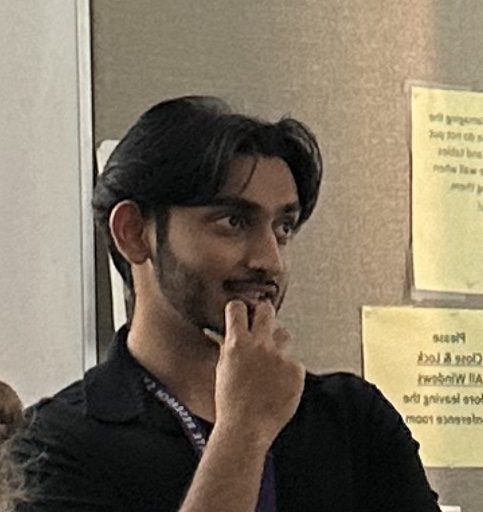
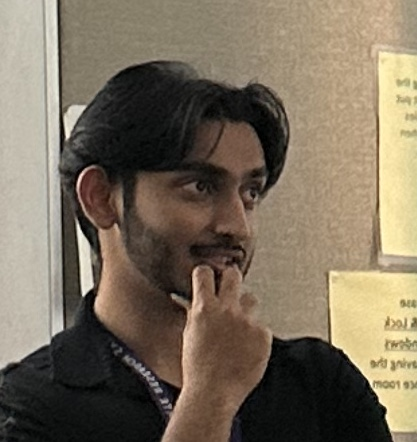
deploy: aditya-uw/my-wowchemy-site@fd492ed4569dba36b0ba7b34c07634377d26df57

diff --git a/talk/discerning-behavioral-habits-of-echolocating-bats-using-acoustical-and-computational-methods/index.html b/talk/discerning-behavioral-habits-of-echolocating-bats-using-acoustical-and-computational-methods/index.html
@@ -2,7 +2,7 @@
 <span><i class="fas fa-bars"></i></span></button><div class="navbar-brand-mobile-wrapper d-inline-flex d-lg-none"><a class=navbar-brand href=/>Aditya @ UW</a></div><div class="navbar-collapse main-menu-item collapse justify-content-start" id=navbar-content><ul class="navbar-nav d-md-inline-flex"><li class=nav-item><a class=nav-link href=/#about><span>Home</span></a></li><li class=nav-item><a class=nav-link href=/#experience><span>Experience</span></a></li><li class=nav-item><a class=nav-link href=/#awards><span>Awards</span></a></li><li class=nav-item><a class=nav-link href=/#courses><span>Courses</span></a></li><li class=nav-item><a class=nav-link href=/#projects><span>Projects</span></a></li><li class=nav-item><a class=nav-link href=/#talks><span>Talks</span></a></li></ul></div><ul class="nav-icons navbar-nav flex-row ml-auto d-flex pl-md-2"><li class=nav-item><a class="nav-link js-search" href=# aria-label=Search><i class="fas fa-search" aria-hidden=true></i></a></li><li class="nav-item dropdown theme-dropdown"><a href=# class=nav-link data-toggle=dropdown aria-haspopup=true aria-label="Display preferences"><i class="fas fa-moon" aria-hidden=true></i></a><div class=dropdown-menu><a href=# class="dropdown-item js-set-theme-light"><span>Light</span></a>
 <a href=# class="dropdown-item js-set-theme-dark"><span>Dark</span></a>
 <a href=# class="dropdown-item js-set-theme-auto"><span>Automatic</span></a></div></li></ul></div></nav></div><div class=page-body><div class=pub><div class="article-container pt-3"><h1>Discerning behavioral habits of echolocating bats using acoustical and computational methods</h1><div class=article-metadata><div><span>Aditya Krishna</span></div></div><div class="btn-links mb-3"><a class="btn btn-outline-primary btn-page-header" href=/talk/discerning-behavioral-habits-of-echolocating-bats-using-acoustical-and-computational-methods/20220520_urp_symposium.pdf target=_blank rel=noopener>Slides</a></div></div><div class="article-header article-container featured-image-wrapper mt-4 mb-4" style=max-width:720px;max-height:405px><div style=position:relative><img src=/talk/discerning-behavioral-habits-of-echolocating-bats-using-acoustical-and-computational-methods/featured_hu7728d7ab4bb6f04b4c5a70b4b3d79b07_1099954_720x0_resize_lanczos_3.png width=720 height=405 alt class=featured-image></div></div><div class=article-container><h3>Abstract</h3><p class=pub-abstract>Bioindicators, such as bats and frogs, are animals with high sensitivity to environmental conditions. Monitoring the collective behavior of these animals is critical in understanding the health of the environment. Monitoring strategies target a shared behavioral trait to observe an animal groups’ presence or absence. To monitor bats, the trait that is most useful is their ability to echolocate. Bats use echolocation to navigate their surroundings and hunt insects by producing high frequency calls and listening for their echoes. This allows them to be acoustically monitored using microphones to capture their activity in the form of echolocation calls. These large volumes of acoustic data can be extremely useful in studying individual and collective behaviors. This is where the field of acoustics and computation can be merged to develop efficient and scalable monitoring methods for discerning bat behavioral patterns. In this work, I collected passive acoustic monitoring data in the Union Bay Natural Area during Fall 2021 and evaluated the performance of multiple automatic detection algorithms. I plan to present preliminary results from applying different algorithms and discuss future data collection and analysis efforts.</p><div class=row><div class=col-md-1></div><div class=col-md-10><div class=row><div class="col-12 col-md-3 pub-row-heading">Date</div><div class="col-12 col-md-9">May 20, 2022 3:45 PM</div></div></div><div class=col-md-1></div></div><div class="d-md-none space-below"></div><div class=row><div class=col-md-1></div><div class=col-md-10><div class=row><div class="col-12 col-md-3 pub-row-heading">Event</div><div class="col-12 col-md-9"><a href=https://expo.uw.edu/expo/apply/635/proceedings target=_blank rel=noopener>25th Annual Undergraduate Research Symposium</a></div></div></div><div class=col-md-1></div></div><div class="d-md-none space-below"></div><div class=row><div class=col-md-1></div><div class=col-md-10><div class=row><div class="col-12 col-md-3 pub-row-heading">Location</div><div class="col-12 col-md-9">University of Washington</div><div class=col-md-3></div><div class="col-12 col-md-9">Seattle, WA</div></div></div><div class=col-md-1></div></div><div class="d-md-none space-below"></div><div class=space-below></div><div class=article-style></div><div class=article-tags><a class="badge badge-light" href=/tag/bioacoustics/>bioacoustics</a>
-<a class="badge badge-light" href=/tag/machine-learning/>machine learning</a></div><div class=share-box><ul class=share><li><a href="https://twitter.com/intent/tweet?url=https://aditya-uw.github.io/talk/discerning-behavioral-habits-of-echolocating-bats-using-acoustical-and-computational-methods/&amp;text=Discerning%20behavioral%20habits%20of%20echolocating%20bats%20using%20acoustical%20and%20computational%20methods" target=_blank rel=noopener class=share-btn-twitter aria-label=twitter><i class="fab fa-twitter"></i></a></li><li><a href="https://www.facebook.com/sharer.php?u=https://aditya-uw.github.io/talk/discerning-behavioral-habits-of-echolocating-bats-using-acoustical-and-computational-methods/&amp;t=Discerning%20behavioral%20habits%20of%20echolocating%20bats%20using%20acoustical%20and%20computational%20methods" target=_blank rel=noopener class=share-btn-facebook aria-label=facebook><i class="fab fa-facebook"></i></a></li><li><a href="mailto:?subject=Discerning%20behavioral%20habits%20of%20echolocating%20bats%20using%20acoustical%20and%20computational%20methods&amp;body=https://aditya-uw.github.io/talk/discerning-behavioral-habits-of-echolocating-bats-using-acoustical-and-computational-methods/" target=_blank rel=noopener class=share-btn-email aria-label=envelope><i class="fas fa-envelope"></i></a></li><li><a href="https://www.linkedin.com/shareArticle?url=https://aditya-uw.github.io/talk/discerning-behavioral-habits-of-echolocating-bats-using-acoustical-and-computational-methods/&amp;title=Discerning%20behavioral%20habits%20of%20echolocating%20bats%20using%20acoustical%20and%20computational%20methods" target=_blank rel=noopener class=share-btn-linkedin aria-label=linkedin-in><i class="fab fa-linkedin-in"></i></a></li><li><a href="whatsapp://send?text=Discerning%20behavioral%20habits%20of%20echolocating%20bats%20using%20acoustical%20and%20computational%20methods%20https://aditya-uw.github.io/talk/discerning-behavioral-habits-of-echolocating-bats-using-acoustical-and-computational-methods/" target=_blank rel=noopener class=share-btn-whatsapp aria-label=whatsapp><i class="fab fa-whatsapp"></i></a></li><li><a href="https://service.weibo.com/share/share.php?url=https://aditya-uw.github.io/talk/discerning-behavioral-habits-of-echolocating-bats-using-acoustical-and-computational-methods/&amp;title=Discerning%20behavioral%20habits%20of%20echolocating%20bats%20using%20acoustical%20and%20computational%20methods" target=_blank rel=noopener class=share-btn-weibo aria-label=weibo><i class="fab fa-weibo"></i></a></li></ul></div><div class="media author-card content-widget-hr"><img class="avatar mr-3 avatar-circle" src=/authors/admin/avatar_hue291b02995fc7c7d4779eb1cf861a618_76925_270x270_fill_q75_lanczos_center.jpg alt="Aditya Krishna"><div class=media-body><h5 class=card-title>Aditya Krishna</h5><h6 class=card-subtitle>Undergraduate Research Assistant</h6><p class=card-text>Interested in using computational techniques to address the sensory challenges in wildlife conservation.</p><ul class=network-icon aria-hidden=true><li><a href=mailto:adkris@uw.edu><i class="fas fa-envelope"></i></a></li><li><a href=https://github.com/aditya-uw target=_blank rel=noopener><i class="fab fa-github"></i></a></li><li><a href=https://www.linkedin.com/in/adkris1002/ target=_blank rel=noopener><i class="fab fa-linkedin"></i></a></li><li><a href=https://wildlabs.net/members/adkris1002 target=_blank rel=noopener><i class="fas fa-paw"></i></a></li><li><a href=/files/AdityaCV3.pdf><i class="ai ai-cv"></i></a></li></ul></div></div><div class="article-widget content-widget-hr"><h3>Related</h3><ul><li><a href=/talk/investigation-of-duty-cycles-in-passive-acoustic-bat-monitoring/>Investigation of duty cycles in passive acoustic bat monitoring</a></li></ul></div></div></div></div><div class=page-footer><div class=container><footer class=site-footer><p class=powered-by>Published with <a href="https://wowchemy.com/?utm_campaign=poweredby" target=_blank rel=noopener>Wowchemy</a> — the free, <a href=https://github.com/wowchemy/wowchemy-hugo-themes target=_blank rel=noopener>open source</a> website builder that empowers creators.</p></footer></div></div><div id=modal class="modal fade" role=dialog><div class=modal-dialog><div class=modal-content><div class=modal-header><h5 class=modal-title>Cite</h5><button type=button class=close data-dismiss=modal aria-label=Close>
+<a class="badge badge-light" href=/tag/machine-learning/>machine learning</a></div><div class=share-box><ul class=share><li><a href="https://twitter.com/intent/tweet?url=https://aditya-uw.github.io/talk/discerning-behavioral-habits-of-echolocating-bats-using-acoustical-and-computational-methods/&amp;text=Discerning%20behavioral%20habits%20of%20echolocating%20bats%20using%20acoustical%20and%20computational%20methods" target=_blank rel=noopener class=share-btn-twitter aria-label=twitter><i class="fab fa-twitter"></i></a></li><li><a href="https://www.facebook.com/sharer.php?u=https://aditya-uw.github.io/talk/discerning-behavioral-habits-of-echolocating-bats-using-acoustical-and-computational-methods/&amp;t=Discerning%20behavioral%20habits%20of%20echolocating%20bats%20using%20acoustical%20and%20computational%20methods" target=_blank rel=noopener class=share-btn-facebook aria-label=facebook><i class="fab fa-facebook"></i></a></li><li><a href="mailto:?subject=Discerning%20behavioral%20habits%20of%20echolocating%20bats%20using%20acoustical%20and%20computational%20methods&amp;body=https://aditya-uw.github.io/talk/discerning-behavioral-habits-of-echolocating-bats-using-acoustical-and-computational-methods/" target=_blank rel=noopener class=share-btn-email aria-label=envelope><i class="fas fa-envelope"></i></a></li><li><a href="https://www.linkedin.com/shareArticle?url=https://aditya-uw.github.io/talk/discerning-behavioral-habits-of-echolocating-bats-using-acoustical-and-computational-methods/&amp;title=Discerning%20behavioral%20habits%20of%20echolocating%20bats%20using%20acoustical%20and%20computational%20methods" target=_blank rel=noopener class=share-btn-linkedin aria-label=linkedin-in><i class="fab fa-linkedin-in"></i></a></li><li><a href="whatsapp://send?text=Discerning%20behavioral%20habits%20of%20echolocating%20bats%20using%20acoustical%20and%20computational%20methods%20https://aditya-uw.github.io/talk/discerning-behavioral-habits-of-echolocating-bats-using-acoustical-and-computational-methods/" target=_blank rel=noopener class=share-btn-whatsapp aria-label=whatsapp><i class="fab fa-whatsapp"></i></a></li><li><a href="https://service.weibo.com/share/share.php?url=https://aditya-uw.github.io/talk/discerning-behavioral-habits-of-echolocating-bats-using-acoustical-and-computational-methods/&amp;title=Discerning%20behavioral%20habits%20of%20echolocating%20bats%20using%20acoustical%20and%20computational%20methods" target=_blank rel=noopener class=share-btn-weibo aria-label=weibo><i class="fab fa-weibo"></i></a></li></ul></div><div class="media author-card content-widget-hr"><img class="avatar mr-3 avatar-circle" src=/authors/admin/avatar_hue291b02995fc7c7d4779eb1cf861a618_60734_270x270_fill_q75_lanczos_center.jpg alt="Aditya Krishna"><div class=media-body><h5 class=card-title>Aditya Krishna</h5><h6 class=card-subtitle>Undergraduate Research Assistant</h6><p class=card-text>Interested in using computational techniques to address the sensory challenges in wildlife conservation.</p><ul class=network-icon aria-hidden=true><li><a href=mailto:adkris@uw.edu><i class="fas fa-envelope"></i></a></li><li><a href=https://github.com/aditya-uw target=_blank rel=noopener><i class="fab fa-github"></i></a></li><li><a href=https://www.linkedin.com/in/adkris1002/ target=_blank rel=noopener><i class="fab fa-linkedin"></i></a></li><li><a href=https://wildlabs.net/members/adkris1002 target=_blank rel=noopener><i class="fas fa-paw"></i></a></li><li><a href=/files/AdityaCV3.pdf><i class="ai ai-cv"></i></a></li></ul></div></div><div class="article-widget content-widget-hr"><h3>Related</h3><ul><li><a href=/talk/investigation-of-duty-cycles-in-passive-acoustic-bat-monitoring/>Investigation of duty cycles in passive acoustic bat monitoring</a></li></ul></div></div></div></div><div class=page-footer><div class=container><footer class=site-footer><p class=powered-by>Published with <a href="https://wowchemy.com/?utm_campaign=poweredby" target=_blank rel=noopener>Wowchemy</a> — the free, <a href=https://github.com/wowchemy/wowchemy-hugo-themes target=_blank rel=noopener>open source</a> website builder that empowers creators.</p></footer></div></div><div id=modal class="modal fade" role=dialog><div class=modal-dialog><div class=modal-content><div class=modal-header><h5 class=modal-title>Cite</h5><button type=button class=close data-dismiss=modal aria-label=Close>
 <span aria-hidden=true>&#215;</span></button></div><div class=modal-body><pre><code class="tex hljs"></code></pre></div><div class=modal-footer><a class="btn btn-outline-primary my-1 js-copy-cite" href=# target=_blank><i class="fas fa-copy"></i> Copy</a>
 <a class="btn btn-outline-primary my-1 js-download-cite" href=# target=_blank><i class="fas fa-download"></i> Download</a><div id=modal-error></div></div></div></div></div><script src=/js/vendor-bundle.min.9592335d574f7a97010f99b90ad0f310.js></script>
 <script src=https://cdn.jsdelivr.net/gh/desandro/imagesloaded@v4.1.4/imagesloaded.pkgd.min.js integrity="sha512-S5PZ9GxJZO16tT9r3WJp/Safn31eu8uWrzglMahDT4dsmgqWonRY9grk3j+3tfuPr9WJNsfooOR7Gi7HL5W2jw==" crossorigin=anonymous></script>

diff --git a/index.html b/index.html
@@ -2,7 +2,7 @@
 <link rel=alternate href=/index.xml type=application/rss+xml title="Aditya @ UW"><link rel=manifest href=/manifest.webmanifest><link rel=icon type=image/png href=/media/icon_hub5d2f0d73fc5b165f21f8d90ebb3a5ea_17918_32x32_fill_lanczos_center_3.png><link rel=apple-touch-icon type=image/png href=/media/icon_hub5d2f0d73fc5b165f21f8d90ebb3a5ea_17918_180x180_fill_lanczos_center_3.png><link rel=canonical href=https://aditya-uw.github.io/><meta property="twitter:card" content="summary"><meta property="og:site_name" content="Aditya @ UW"><meta property="og:url" content="https://aditya-uw.github.io/"><meta property="og:title" content="Aditya @ UW"><meta property="og:description" content><meta property="og:image" content="https://aditya-uw.github.io/media/icon_hub5d2f0d73fc5b165f21f8d90ebb3a5ea_17918_512x512_fill_lanczos_center_3.png"><meta property="twitter:image" content="https://aditya-uw.github.io/media/icon_hub5d2f0d73fc5b165f21f8d90ebb3a5ea_17918_512x512_fill_lanczos_center_3.png"><meta property="og:locale" content="en-us"><meta property="og:updated_time" content="2023-05-30T00:00:00+00:00"><script type=application/ld+json>{"@context":"https://schema.org","@type":"WebSite","potentialAction":{"@type":"SearchAction","target":"https://aditya-uw.github.io/?q={search_term_string}","query-input":"required name=search_term_string"},"url":"https://aditya-uw.github.io/"}</script><title>Aditya @ UW</title></head><body id=top data-spy=scroll data-offset=70 data-target=#navbar-main class=page-wrapper><script src=/js/wowchemy-init.min.6619cc29fe1a874b6ea1a0359aab5cfb.js></script><aside class=search-modal id=search><div class=container><section class=search-header><div class="row no-gutters justify-content-between mb-3"><div class=col-6><h1>Search</h1></div><div class="col-6 col-search-close"><a class=js-search href=# aria-label=Close><i class="fas fa-times-circle text-muted" aria-hidden=true></i></a></div></div><div id=search-box><input name=q id=search-query placeholder=Search... autocapitalize=off autocomplete=off autocorrect=off spellcheck=false type=search class=form-control aria-label=Search...></div></section><section class=section-search-results><div id=search-hits></div></section></div></aside><div class=page-header><nav class="navbar navbar-expand-lg navbar-light compensate-for-scrollbar" id=navbar-main><div class=container-xl><div class="d-none d-lg-inline-flex"><a class=navbar-brand href=/>Aditya @ UW</a></div><button type=button class=navbar-toggler data-toggle=collapse data-target=#navbar-content aria-controls=navbar-content aria-expanded=false aria-label="Toggle navigation">
 <span><i class="fas fa-bars"></i></span></button><div class="navbar-brand-mobile-wrapper d-inline-flex d-lg-none"><a class=navbar-brand href=/>Aditya @ UW</a></div><div class="navbar-collapse main-menu-item collapse justify-content-start" id=navbar-content><ul class="navbar-nav d-md-inline-flex"><li class=nav-item><a class=nav-link href=/#about data-target=#about><span>Home</span></a></li><li class=nav-item><a class=nav-link href=/#experience data-target=#experience><span>Experience</span></a></li><li class=nav-item><a class=nav-link href=/#awards data-target=#awards><span>Awards</span></a></li><li class=nav-item><a class=nav-link href=/#courses data-target=#courses><span>Courses</span></a></li><li class=nav-item><a class=nav-link href=/#projects data-target=#projects><span>Projects</span></a></li><li class=nav-item><a class=nav-link href=/#talks data-target=#talks><span>Talks</span></a></li></ul></div><ul class="nav-icons navbar-nav flex-row ml-auto d-flex pl-md-2"><li class=nav-item><a class="nav-link js-search" href=# aria-label=Search><i class="fas fa-search" aria-hidden=true></i></a></li><li class="nav-item dropdown theme-dropdown"><a href=# class=nav-link data-toggle=dropdown aria-haspopup=true aria-label="Display preferences"><i class="fas fa-moon" aria-hidden=true></i></a><div class=dropdown-menu><a href=# class="dropdown-item js-set-theme-light"><span>Light</span></a>
 <a href=# class="dropdown-item js-set-theme-dark"><span>Dark</span></a>
-<a href=# class="dropdown-item js-set-theme-auto"><span>Automatic</span></a></div></li></ul></div></nav></div><div class=page-body><span class="js-widget-page d-none"></span><section id=about class="home-section wg-about"><div class=home-section-bg></div><div class=container><div class=row><div class="col-12 col-lg-4"><div id=profile><img class="avatar avatar-circle" width=270 height=270 src=/authors/admin/avatar_hue291b02995fc7c7d4779eb1cf861a618_76925_270x270_fill_q75_lanczos_center.jpg alt="Aditya Krishna"><div class=portrait-title><h2>Aditya Krishna</h2><h3>Undergraduate Research Assistant</h3><h3><span>Applied Physics Laboratory</span></h3><h3><span>University of Washington</span></h3></div><ul class=network-icon aria-hidden=true><li><a href=mailto:adkris@uw.edu aria-label=envelope><i class="fas fa-envelope big-icon"></i></a></li><li><a href=https://github.com/aditya-uw target=_blank rel=noopener aria-label=github><i class="fab fa-github big-icon"></i></a></li><li><a href=https://www.linkedin.com/in/adkris1002/ target=_blank rel=noopener aria-label=linkedin><i class="fab fa-linkedin big-icon"></i></a></li><li><a href=https://wildlabs.net/members/adkris1002 target=_blank rel=noopener aria-label=paw><i class="fas fa-paw big-icon"></i></a></li><li><a href=/files/AdityaCV3.pdf aria-label=cv><i class="ai ai-cv big-icon"></i></a></li></ul></div></div><div class="col-12 col-lg-8"><h1>Biography</h1><div class=article-style><p>I am a student at the University of Washington majoring in Electrical Engineering and pursuing Digital Signal Processing and Neural Engineering concentrations. I am expected to graduate the Spring of 2024 and am interested in pursuing graduate research after my bachelor&rsquo;s degree.</p><p>My core competency is in programming, with an expertise in Python and Java. I am currently applying signal processing techniques in passive acoustic monitoring of bats with a goal toward ecological conservation.</p><p>At <a href=https://uw-echospace.github.io target=_blank rel=noopener>Echospace</a>, I am investigating duty cycle-based subsampling for passive acoustic monitoring to understand how the observations drawn from acoustic bat activity are influenced by subsampling parameters. We collect our echolocation data from local bat colonies by deploying autonomous recording units (<a href=https://www.openacousticdevices.info/audiomoth target=_blank rel=noopener>AudioMoths</a>), at the Union Bay Natural Area right by the UW&rsquo;s football stadium.</p><p>Feel free to ask me any questions at my email on pursuing research as an undergraduate!</p></div><div class=row><div class=col-md-5><div class=section-subheading>Interests</div><ul class="ul-interests mb-0"><li>Digital Signal Processing</li><li>Echolocation/Bioacoustics</li><li>Passive Acoustic Monitoring</li></ul></div><div class=col-md-7><div class=section-subheading>Education</div><ul class="ul-edu fa-ul mb-0"><li><i class="fa-li fas fa-graduation-cap"></i><div class=description><p class=course>BS in Electrical Engineering, 2024 (expected)</p><p class=institution>University of Washington</p></div></li></ul></div></div></div></div></div></section><section id=experience class="home-section wg-experience"><div class=home-section-bg></div><div class=container><div class=row><div class="section-heading col-12 col-lg-4 mb-3 mb-lg-0 d-flex flex-column align-items-center align-items-lg-start"><h1 class=mb-0>Experience</h1></div><div class="col-12 col-lg-8"><div class="row experience"><div class="col-auto text-center flex-column d-none d-sm-flex"><div class="row h-50"><div class=col>&nbsp;</div><div class=col>&nbsp;</div></div><div class=m-2><span class="badge badge-pill border exp-fill">&nbsp;</span></div><div class="row h-50"><div class="col border-right">&nbsp;</div><div class=col>&nbsp;</div></div></div><div class="col py-2"><div class=card><div class=card-body><div class="d-flex align-content-start"><div class="mr-2 mb-2"><a href=https://uw-echospace.github.io target=_blank rel=noopener><img src=/media/icons/brands/apl.svg width=56px height=56px alt="Echospace @ UW-APL"></a></div><div><div class="section-subheading card-title exp-title text-muted my-0">Undergraduate Research Assistant</div><div class="section-subheading card-title exp-company text-muted my-0"><a href=https://uw-echospace.github.io target=_blank rel=noopener>Echospace @ UW-APL</a></div><div class="text-muted exp-meta">Sep 2021 –
+<a href=# class="dropdown-item js-set-theme-auto"><span>Automatic</span></a></div></li></ul></div></nav></div><div class=page-body><span class="js-widget-page d-none"></span><section id=about class="home-section wg-about"><div class=home-section-bg></div><div class=container><div class=row><div class="col-12 col-lg-4"><div id=profile><img class="avatar avatar-circle" width=270 height=270 src=/authors/admin/avatar_hue291b02995fc7c7d4779eb1cf861a618_60734_270x270_fill_q75_lanczos_center.jpg alt="Aditya Krishna"><div class=portrait-title><h2>Aditya Krishna</h2><h3>Undergraduate Research Assistant</h3><h3><span>Applied Physics Laboratory</span></h3><h3><span>University of Washington</span></h3></div><ul class=network-icon aria-hidden=true><li><a href=mailto:adkris@uw.edu aria-label=envelope><i class="fas fa-envelope big-icon"></i></a></li><li><a href=https://github.com/aditya-uw target=_blank rel=noopener aria-label=github><i class="fab fa-github big-icon"></i></a></li><li><a href=https://www.linkedin.com/in/adkris1002/ target=_blank rel=noopener aria-label=linkedin><i class="fab fa-linkedin big-icon"></i></a></li><li><a href=https://wildlabs.net/members/adkris1002 target=_blank rel=noopener aria-label=paw><i class="fas fa-paw big-icon"></i></a></li><li><a href=/files/AdityaCV3.pdf aria-label=cv><i class="ai ai-cv big-icon"></i></a></li></ul></div></div><div class="col-12 col-lg-8"><h1>Biography</h1><div class=article-style><p>I am a student at the University of Washington majoring in Electrical Engineering and pursuing Digital Signal Processing and Neural Engineering concentrations. I am expected to graduate the Spring of 2024 and am interested in pursuing graduate research after my bachelor&rsquo;s degree.</p><p>My core competency is in programming, with an expertise in Python and Java. I am currently applying signal processing techniques in passive acoustic monitoring of bats with a goal toward ecological conservation.</p><p>At <a href=https://uw-echospace.github.io target=_blank rel=noopener>Echospace</a>, I am investigating duty cycle-based subsampling for passive acoustic monitoring to understand how the observations drawn from acoustic bat activity are influenced by subsampling parameters. We collect our echolocation data from local bat colonies by deploying autonomous recording units (<a href=https://www.openacousticdevices.info/audiomoth target=_blank rel=noopener>AudioMoths</a>), at the Union Bay Natural Area right by the UW&rsquo;s football stadium.</p><p>Feel free to ask me any questions at my email on pursuing research as an undergraduate!</p></div><div class=row><div class=col-md-5><div class=section-subheading>Interests</div><ul class="ul-interests mb-0"><li>Digital Signal Processing</li><li>Echolocation/Bioacoustics</li><li>Passive Acoustic Monitoring</li></ul></div><div class=col-md-7><div class=section-subheading>Education</div><ul class="ul-edu fa-ul mb-0"><li><i class="fa-li fas fa-graduation-cap"></i><div class=description><p class=course>BS in Electrical Engineering, 2024 (expected)</p><p class=institution>University of Washington</p></div></li></ul></div></div></div></div></div></section><section id=experience class="home-section wg-experience"><div class=home-section-bg></div><div class=container><div class=row><div class="section-heading col-12 col-lg-4 mb-3 mb-lg-0 d-flex flex-column align-items-center align-items-lg-start"><h1 class=mb-0>Experience</h1></div><div class="col-12 col-lg-8"><div class="row experience"><div class="col-auto text-center flex-column d-none d-sm-flex"><div class="row h-50"><div class=col>&nbsp;</div><div class=col>&nbsp;</div></div><div class=m-2><span class="badge badge-pill border exp-fill">&nbsp;</span></div><div class="row h-50"><div class="col border-right">&nbsp;</div><div class=col>&nbsp;</div></div></div><div class="col py-2"><div class=card><div class=card-body><div class="d-flex align-content-start"><div class="mr-2 mb-2"><a href=https://uw-echospace.github.io target=_blank rel=noopener><img src=/media/icons/brands/apl.svg width=56px height=56px alt="Echospace @ UW-APL"></a></div><div><div class="section-subheading card-title exp-title text-muted my-0">Undergraduate Research Assistant</div><div class="section-subheading card-title exp-company text-muted my-0"><a href=https://uw-echospace.github.io target=_blank rel=noopener>Echospace @ UW-APL</a></div><div class="text-muted exp-meta">Sep 2021 –
 Present
 <span class=middot-divider></span>
 <span>Seattle, WA</span></div></div></div><div class=card-text>● Collected field data on bat calls for application of machine learning tools.<br>● Working alongside Dr. Wu-Jung Lee on research and data analysis.<br>● Participating in monthly journal briefings and weekly project updates.</div></div></div></div></div><div class="row experience"><div class="col-auto text-center flex-column d-none d-sm-flex"><div class="row h-50"><div class="col border-right">&nbsp;</div><div class=col>&nbsp;</div></div><div class=m-2><span class="badge badge-pill border">&nbsp;</span></div><div class="row h-50"><div class=col>&nbsp;</div><div class=col>&nbsp;</div></div></div><div class="col py-2"><div class=card><div class=card-body><div class="d-flex align-content-start"><div class="mr-2 mb-2"><img src=/media/icons/brands/hcl.svg width=56px height=56px alt="HCL America Inc."></div><div><div class="section-subheading card-title exp-title text-muted my-0">Software Development Intern</div><div class="section-subheading card-title exp-company text-muted my-0">HCL America Inc.</div><div class="text-muted exp-meta">Jun 2019 –

diff --git a/talk/investigation-of-duty-cycles-in-passive-acoustic-bat-monitoring/index.html b/talk/investigation-of-duty-cycles-in-passive-acoustic-bat-monitoring/index.html
@@ -3,7 +3,7 @@
 <a href=# class="dropdown-item js-set-theme-dark"><span>Dark</span></a>
 <a href=# class="dropdown-item js-set-theme-auto"><span>Automatic</span></a></div></li></ul></div></nav></div><div class=page-body><div class=pub><div class="article-container pt-3"><h1>Investigation of duty cycles in passive acoustic bat monitoring</h1><div class=article-metadata><div><span>Aditya Krishna</span></div></div><div class="btn-links mb-3"><a class="btn btn-outline-primary btn-page-header" href=/talk/investigation-of-duty-cycles-in-passive-acoustic-bat-monitoring/AK_20230519_symposium.pdf target=_blank rel=noopener>Slides</a></div></div><div class="article-header article-container featured-image-wrapper mt-4 mb-4" style=max-width:720px;max-height:468px><div style=position:relative><img src=/talk/investigation-of-duty-cycles-in-passive-acoustic-bat-monitoring/featured_hu2443f37e7d92b078375fd7a8d14928a2_138835_720x0_resize_q75_lanczos.jpg width=720 height=468 alt class=featured-image></div></div><div class=article-container><h3>Abstract</h3><p class=pub-abstract>In long term data collection, sampling is a key parameter that can dictate the amount of data collected and also influence the available conclusions to be drawn. In the context of passive acoustic monitoring, recording an area’s soundscape at intervals (i.e., subsampling based on duty cycles) can alleviate data management costs, and has been widely investigated in the bird monitoring literature. However, the influence of duty cycle-based subsampling in passive acoustic monitoring of bats has not been thoroughly studied. Here, we discuss the effects of subsampling on ultrasonic recordings collected using AudioMoth recorders in the Union Bay Natural Area in 2022. We recorded continuously over the summer and then computationally applied duty cycles onto our data to generate subsampled data. The subsampled data was then fed into multiple bat call detection algorithms to understand the influence of different subsampling schemes. Our results show that subsampling schemes can impact the trends and activities that can be acoustically observed from echolocating bats. The results also show how the subsampling parameters may be tuned to collect valuable information while keeping data management costs low. We anticipate that this detailed investigation will aid in the design of efficient, long-term bat acoustic monitoring projects.</p><div class=row><div class=col-md-1></div><div class=col-md-10><div class=row><div class="col-12 col-md-3 pub-row-heading">Date</div><div class="col-12 col-md-9">May 19, 2023 3:30 PM</div></div></div><div class=col-md-1></div></div><div class="d-md-none space-below"></div><div class=row><div class=col-md-1></div><div class=col-md-10><div class=row><div class="col-12 col-md-3 pub-row-heading">Event</div><div class="col-12 col-md-9"><a href=https://expo.uw.edu/expo/apply/676/proceedings target=_blank rel=noopener>26th Annual Undergraduate Research Symposium</a></div></div></div><div class=col-md-1></div></div><div class="d-md-none space-below"></div><div class=row><div class=col-md-1></div><div class=col-md-10><div class=row><div class="col-12 col-md-3 pub-row-heading">Location</div><div class="col-12 col-md-9">University of Washington</div><div class=col-md-3></div><div class="col-12 col-md-9">Seattle, WA</div></div></div><div class=col-md-1></div></div><div class="d-md-none space-below"></div><div class=space-below></div><div class=article-style></div><div class=article-tags><a class="badge badge-light" href=/tag/bioacoustics/>bioacoustics</a>
 <a class="badge badge-light" href=/tag/passive-acoustic-monitoring/>passive acoustic monitoring</a>
-<a class="badge badge-light" href=/tag/machine-learning/>machine learning</a></div><div class=share-box><ul class=share><li><a href="https://twitter.com/intent/tweet?url=https://aditya-uw.github.io/talk/investigation-of-duty-cycles-in-passive-acoustic-bat-monitoring/&amp;text=Investigation%20of%20duty%20cycles%20in%20passive%20acoustic%20bat%20monitoring" target=_blank rel=noopener class=share-btn-twitter aria-label=twitter><i class="fab fa-twitter"></i></a></li><li><a href="https://www.facebook.com/sharer.php?u=https://aditya-uw.github.io/talk/investigation-of-duty-cycles-in-passive-acoustic-bat-monitoring/&amp;t=Investigation%20of%20duty%20cycles%20in%20passive%20acoustic%20bat%20monitoring" target=_blank rel=noopener class=share-btn-facebook aria-label=facebook><i class="fab fa-facebook"></i></a></li><li><a href="mailto:?subject=Investigation%20of%20duty%20cycles%20in%20passive%20acoustic%20bat%20monitoring&amp;body=https://aditya-uw.github.io/talk/investigation-of-duty-cycles-in-passive-acoustic-bat-monitoring/" target=_blank rel=noopener class=share-btn-email aria-label=envelope><i class="fas fa-envelope"></i></a></li><li><a href="https://www.linkedin.com/shareArticle?url=https://aditya-uw.github.io/talk/investigation-of-duty-cycles-in-passive-acoustic-bat-monitoring/&amp;title=Investigation%20of%20duty%20cycles%20in%20passive%20acoustic%20bat%20monitoring" target=_blank rel=noopener class=share-btn-linkedin aria-label=linkedin-in><i class="fab fa-linkedin-in"></i></a></li><li><a href="whatsapp://send?text=Investigation%20of%20duty%20cycles%20in%20passive%20acoustic%20bat%20monitoring%20https://aditya-uw.github.io/talk/investigation-of-duty-cycles-in-passive-acoustic-bat-monitoring/" target=_blank rel=noopener class=share-btn-whatsapp aria-label=whatsapp><i class="fab fa-whatsapp"></i></a></li><li><a href="https://service.weibo.com/share/share.php?url=https://aditya-uw.github.io/talk/investigation-of-duty-cycles-in-passive-acoustic-bat-monitoring/&amp;title=Investigation%20of%20duty%20cycles%20in%20passive%20acoustic%20bat%20monitoring" target=_blank rel=noopener class=share-btn-weibo aria-label=weibo><i class="fab fa-weibo"></i></a></li></ul></div><div class="media author-card content-widget-hr"><img class="avatar mr-3 avatar-circle" src=/authors/admin/avatar_hue291b02995fc7c7d4779eb1cf861a618_76925_270x270_fill_q75_lanczos_center.jpg alt="Aditya Krishna"><div class=media-body><h5 class=card-title>Aditya Krishna</h5><h6 class=card-subtitle>Undergraduate Research Assistant</h6><p class=card-text>Interested in using computational techniques to address the sensory challenges in wildlife conservation.</p><ul class=network-icon aria-hidden=true><li><a href=mailto:adkris@uw.edu><i class="fas fa-envelope"></i></a></li><li><a href=https://github.com/aditya-uw target=_blank rel=noopener><i class="fab fa-github"></i></a></li><li><a href=https://www.linkedin.com/in/adkris1002/ target=_blank rel=noopener><i class="fab fa-linkedin"></i></a></li><li><a href=https://wildlabs.net/members/adkris1002 target=_blank rel=noopener><i class="fas fa-paw"></i></a></li><li><a href=/files/AdityaCV3.pdf><i class="ai ai-cv"></i></a></li></ul></div></div><div class="article-widget content-widget-hr"><h3>Related</h3><ul><li><a href=/talk/discerning-behavioral-habits-of-echolocating-bats-using-acoustical-and-computational-methods/>Discerning behavioral habits of echolocating bats using acoustical and computational methods</a></li></ul></div></div></div></div><div class=page-footer><div class=container><footer class=site-footer><p class=powered-by>Published with <a href="https://wowchemy.com/?utm_campaign=poweredby" target=_blank rel=noopener>Wowchemy</a> — the free, <a href=https://github.com/wowchemy/wowchemy-hugo-themes target=_blank rel=noopener>open source</a> website builder that empowers creators.</p></footer></div></div><div id=modal class="modal fade" role=dialog><div class=modal-dialog><div class=modal-content><div class=modal-header><h5 class=modal-title>Cite</h5><button type=button class=close data-dismiss=modal aria-label=Close>
+<a class="badge badge-light" href=/tag/machine-learning/>machine learning</a></div><div class=share-box><ul class=share><li><a href="https://twitter.com/intent/tweet?url=https://aditya-uw.github.io/talk/investigation-of-duty-cycles-in-passive-acoustic-bat-monitoring/&amp;text=Investigation%20of%20duty%20cycles%20in%20passive%20acoustic%20bat%20monitoring" target=_blank rel=noopener class=share-btn-twitter aria-label=twitter><i class="fab fa-twitter"></i></a></li><li><a href="https://www.facebook.com/sharer.php?u=https://aditya-uw.github.io/talk/investigation-of-duty-cycles-in-passive-acoustic-bat-monitoring/&amp;t=Investigation%20of%20duty%20cycles%20in%20passive%20acoustic%20bat%20monitoring" target=_blank rel=noopener class=share-btn-facebook aria-label=facebook><i class="fab fa-facebook"></i></a></li><li><a href="mailto:?subject=Investigation%20of%20duty%20cycles%20in%20passive%20acoustic%20bat%20monitoring&amp;body=https://aditya-uw.github.io/talk/investigation-of-duty-cycles-in-passive-acoustic-bat-monitoring/" target=_blank rel=noopener class=share-btn-email aria-label=envelope><i class="fas fa-envelope"></i></a></li><li><a href="https://www.linkedin.com/shareArticle?url=https://aditya-uw.github.io/talk/investigation-of-duty-cycles-in-passive-acoustic-bat-monitoring/&amp;title=Investigation%20of%20duty%20cycles%20in%20passive%20acoustic%20bat%20monitoring" target=_blank rel=noopener class=share-btn-linkedin aria-label=linkedin-in><i class="fab fa-linkedin-in"></i></a></li><li><a href="whatsapp://send?text=Investigation%20of%20duty%20cycles%20in%20passive%20acoustic%20bat%20monitoring%20https://aditya-uw.github.io/talk/investigation-of-duty-cycles-in-passive-acoustic-bat-monitoring/" target=_blank rel=noopener class=share-btn-whatsapp aria-label=whatsapp><i class="fab fa-whatsapp"></i></a></li><li><a href="https://service.weibo.com/share/share.php?url=https://aditya-uw.github.io/talk/investigation-of-duty-cycles-in-passive-acoustic-bat-monitoring/&amp;title=Investigation%20of%20duty%20cycles%20in%20passive%20acoustic%20bat%20monitoring" target=_blank rel=noopener class=share-btn-weibo aria-label=weibo><i class="fab fa-weibo"></i></a></li></ul></div><div class="media author-card content-widget-hr"><img class="avatar mr-3 avatar-circle" src=/authors/admin/avatar_hue291b02995fc7c7d4779eb1cf861a618_60734_270x270_fill_q75_lanczos_center.jpg alt="Aditya Krishna"><div class=media-body><h5 class=card-title>Aditya Krishna</h5><h6 class=card-subtitle>Undergraduate Research Assistant</h6><p class=card-text>Interested in using computational techniques to address the sensory challenges in wildlife conservation.</p><ul class=network-icon aria-hidden=true><li><a href=mailto:adkris@uw.edu><i class="fas fa-envelope"></i></a></li><li><a href=https://github.com/aditya-uw target=_blank rel=noopener><i class="fab fa-github"></i></a></li><li><a href=https://www.linkedin.com/in/adkris1002/ target=_blank rel=noopener><i class="fab fa-linkedin"></i></a></li><li><a href=https://wildlabs.net/members/adkris1002 target=_blank rel=noopener><i class="fas fa-paw"></i></a></li><li><a href=/files/AdityaCV3.pdf><i class="ai ai-cv"></i></a></li></ul></div></div><div class="article-widget content-widget-hr"><h3>Related</h3><ul><li><a href=/talk/discerning-behavioral-habits-of-echolocating-bats-using-acoustical-and-computational-methods/>Discerning behavioral habits of echolocating bats using acoustical and computational methods</a></li></ul></div></div></div></div><div class=page-footer><div class=container><footer class=site-footer><p class=powered-by>Published with <a href="https://wowchemy.com/?utm_campaign=poweredby" target=_blank rel=noopener>Wowchemy</a> — the free, <a href=https://github.com/wowchemy/wowchemy-hugo-themes target=_blank rel=noopener>open source</a> website builder that empowers creators.</p></footer></div></div><div id=modal class="modal fade" role=dialog><div class=modal-dialog><div class=modal-content><div class=modal-header><h5 class=modal-title>Cite</h5><button type=button class=close data-dismiss=modal aria-label=Close>
 <span aria-hidden=true>&#215;</span></button></div><div class=modal-body><pre><code class="tex hljs"></code></pre></div><div class=modal-footer><a class="btn btn-outline-primary my-1 js-copy-cite" href=# target=_blank><i class="fas fa-copy"></i> Copy</a>
 <a class="btn btn-outline-primary my-1 js-download-cite" href=# target=_blank><i class="fas fa-download"></i> Download</a><div id=modal-error></div></div></div></div></div><script src=/js/vendor-bundle.min.9592335d574f7a97010f99b90ad0f310.js></script>
 <script src=https://cdn.jsdelivr.net/gh/desandro/imagesloaded@v4.1.4/imagesloaded.pkgd.min.js integrity="sha512-S5PZ9GxJZO16tT9r3WJp/Safn31eu8uWrzglMahDT4dsmgqWonRY9grk3j+3tfuPr9WJNsfooOR7Gi7HL5W2jw==" crossorigin=anonymous></script>
